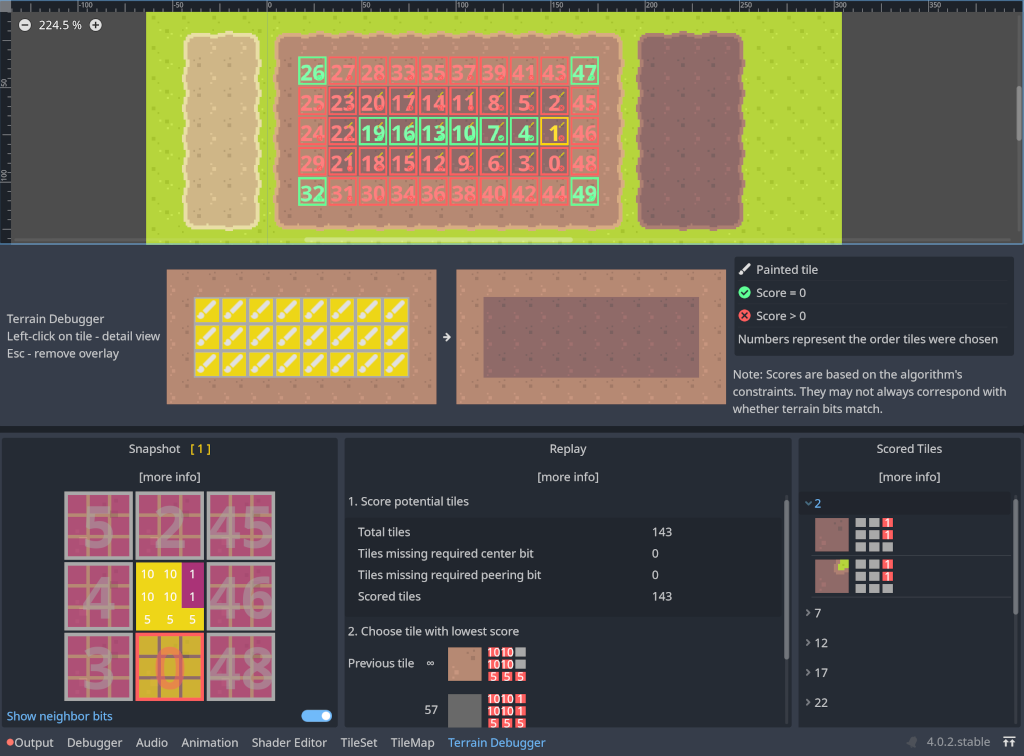
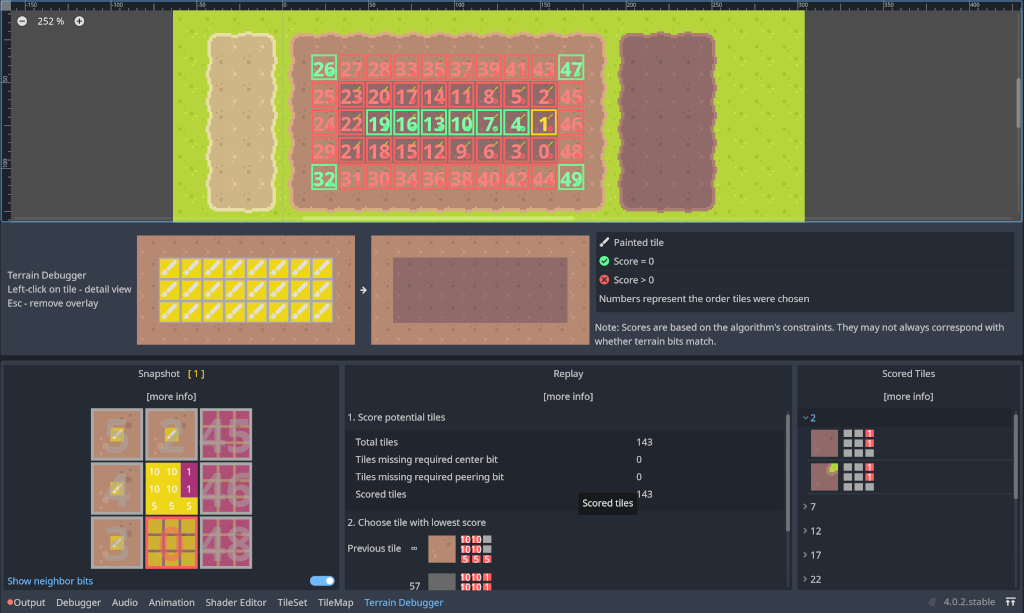
Improve painted tiles in snapshot display (#1)
* changed painted tiles display in snapshot

* update screenshots and readme

* sync readmes

* update version

diff --git a/README.md b/README.md
@@ -59,10 +59,24 @@ An unexpected transition?
 
 ## Limitations
 Terrain Debugger can be used with square tilesets in any mode, but it does not support:
-    - alternative tiles
-    - non-square tiles
-    - multiple layers (tiles must be on layer 0)
+- alternative tiles
+- non-square tiles
+- multiple layers (tiles must be on layer 0)
 
+
+## Known Bugs and Workarounds
+*This is a niche tool that won't require frequent use, so I am not planning a lot of updates or bug fixes, especially if bugs can be worked around.*
+
+- If your TileMap is selected before you enable the Terrain Debugger plugin, you will need to select another object in the scene, then re-open the TileMap in order for the plugin to work.
+- Clicking on the tiles overlay can be finicky; sometimes it will paint a new tile or close the terrain overlay. 
+    - Workaround: Re-paint the tile and try again. 
+    - Note: Once the Terrain Debugger bottom panel is open with a selected tile, you can use the snapshot view to navigate to neighboring tiles, which is more reliable.
+- Large tile updates cause noticeable lag, and can cause the Terrain Debugger to silently fail (ex. drawing a large rectangle)
+    - Workaround: Often, if you try again, it will work. Or try painting a smaller area.
+- The overlay can be annoying if you don't need it. I recommend placing your background tiles with the plugin disabled, then enabling it and painting the tile(s) you want to inspect. Remember that you will need to select another object, then go back to the TileMap for the Terrain Debugger to work.
+- To handle to expand the bottom panel is located below the Terrain Debugger info panel.
+
+[![Screenshot of the bottom panel dragger location](screenshots/drag_location.png)]
 
 ## License
 The Terrain Debugger plugin is covered by the MIT license in this repository.

diff --git a/addons/terrain_debugger/README.md b/addons/terrain_debugger/README.md
@@ -59,10 +59,24 @@ An unexpected transition?
 
 ## Limitations
 Terrain Debugger can be used with square tilesets in any mode, but it does not support:
-    - alternative tiles
-    - non-square tiles
-    - multiple layers (tiles must be on layer 0)
+- alternative tiles
+- non-square tiles
+- multiple layers (tiles must be on layer 0)
 
+
+## Known Bugs and Workarounds
+*This is a niche tool that won't require frequent use, so I am not planning a lot of updates or bug fixes, especially if bugs can be worked around.*
+
+- If your TileMap is selected before you enable the Terrain Debugger plugin, you will need to select another object in the scene, then re-open the TileMap in order for the plugin to work.
+- Clicking on the tiles overlay can be finicky; sometimes it will paint a new tile or close the terrain overlay. 
+    - Workaround: Re-paint the tile and try again. 
+    - Note: Once the Terrain Debugger bottom panel is open with a selected tile, you can use the snapshot view to navigate to neighboring tiles, which is more reliable.
+- Large tile updates cause noticeable lag, and can cause the Terrain Debugger to silently fail (ex. drawing a large rectangle)
+    - Workaround: Often, if you try again, it will work. Or try painting a smaller area.
+- The overlay can be annoying if you don't need it. I recommend placing your background tiles with the plugin disabled, then enabling it and painting the tile(s) you want to inspect. Remember that you will need to select another object, then go back to the TileMap for the Terrain Debugger to work.
+- To handle to expand the bottom panel is located below the Terrain Debugger info panel.
+
+[![Screenshot of the bottom panel dragger location](screenshots/drag_location.png)]
 
 ## License
 The Terrain Debugger plugin is covered by the MIT license in this repository.
